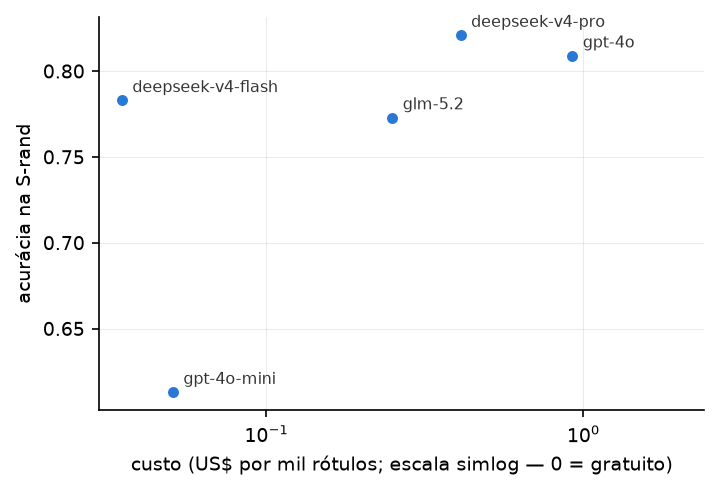
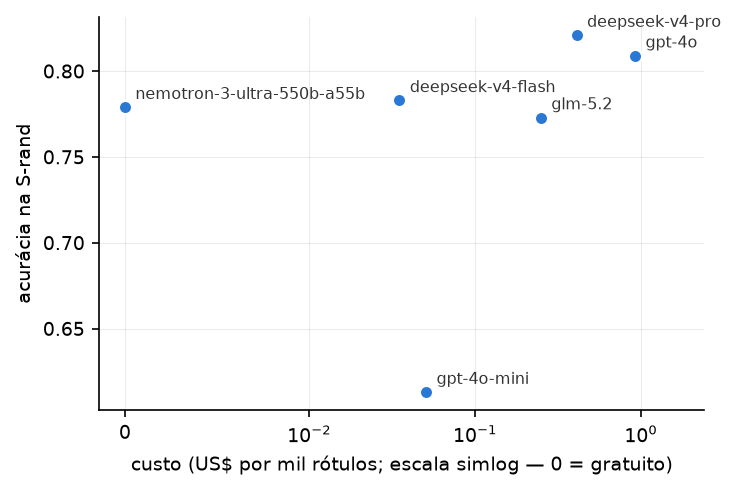
SgdTextClassifier + ciclo E2E FALCO com oráculo real + doc de parada/drift
- sgd_text.py: SGD logístico sobre TF-IDF (porta TaskClassifier; D-007 —
  racional vs XGBoost no docstring); 3 testes novos (70 verdes)
- experiments/e5cycle/run_cycle.py: FALCO ponta a ponta (DRI-SL + entropia +
  estagnação em validação) com nemotron via NVIDIA NIM, por classificador
  {pvbin, sgd}; registra curva interna (validação) e externa (teste);
  smoke offline com --simulated validado (parou em 910/1000 por estagnação)
- docs/parada-e-drift.md: critério de parada (implementado), critério de
  liberação do modelo e monitoramento de drift em 3 camadas c/ gatilhos
- fig_e0 regenerada com o braço free completo

Claude-Session: https://claude.ai/code/session_01JWRRPCroKSVBbRpCGBwpLG

diff --git a/experiments/e5cycle/run_cycle.py b/experiments/e5cycle/run_cycle.py
@@ -1,0 +1,129 @@
+"""E5-ciclo — FALCO ponta a ponta com oráculo LLM real e gratuito (NVIDIA NIM).
+
+Ciclo completo por classificador ∈ {pvbin, sgd}: DRI-SL (cold start sem
+rótulos) → Fase 2 por entropia com transição por estagnação NA VALIDAÇÃO →
+oráculo nemotron-3-ultra (custo monetário zero). Registra a curva INTERNA
+(validação, usada nas decisões) e a EXTERNA (teste intocado, só relato).
+
+Uso: python experiments/e5cycle/run_cycle.py [--classifier pvbin|sgd|both]
+Parâmetros de desenho no bloco CONFIG.
+"""
+from __future__ import annotations
+
+import argparse
+import csv
+import json
+import random
+import sys
+import time
+from collections import Counter
+from pathlib import Path
+
+_ROOT = Path(__file__).resolve().parents[2]
+sys.path.insert(0, str(_ROOT / "src"))
+sys.path.insert(0, str(_ROOT / "experiments/e0"))
+
+from run_e0 import load_dotenv_if_present  # noqa: E402
+
+load_dotenv_if_present()
+
+from activelearning.adapters.classifiers.pvbin import PVBinClassifier  # noqa: E402
+from activelearning.adapters.classifiers.sgd_text import SgdTextClassifier  # noqa: E402
+from activelearning.adapters.oracles.factory import build_oracle  # noqa: E402
+from activelearning.adapters.strategies.drisl import TfidfSvdEncoder, drisl_select  # noqa: E402
+from activelearning.domain.instances import CategorySchema, Instance, normalize_label  # noqa: E402
+from activelearning.application.run_falco import run_falco  # noqa: E402
+
+CONFIG = {
+    "seed": 42,
+    "pool_size": 5000,
+    "val_size": 1000,
+    "test_size": 1000,
+    "budget": 1000,
+    "batch_size": 100,
+    "min_per_class": 2,
+    "oracle": {"provider": "nvidia", "model": "nvidia/nemotron-3-ultra-550b-a55b",
+                "mode": "json-prompt", "items_per_call": 10},
+}
+
+CLASSIFIERS = {"pvbin": PVBinClassifier, "sgd": SgdTextClassifier}
+
+
+def load_splits(cfg):
+    rows = []
+    with (_ROOT / "data/dataset.csv").open(encoding="utf-8") as fh:
+        for r in csv.DictReader(fh):
+            rows.append((r["nm_item"], normalize_label(r["nm_product"])))
+    counts = Counter(l for _, l in rows)
+    rows = [(t, l) for t, l in rows if counts[l] >= cfg["min_per_class"]]
+    # dedup por texto (evita mesma descrição em pool e teste)
+    seen, dedup = set(), []
+    for t, l in rows:
+        k = t.strip().lower()
+        if k not in seen:
+            seen.add(k)
+            dedup.append((t, l))
+    rng = random.Random(cfg["seed"])
+    rng.shuffle(dedup)
+    n_pool, n_val, n_test = cfg["pool_size"], cfg["val_size"], cfg["test_size"]
+    def to_instances(part, prefix):
+        from activelearning.domain.instances import Label
+        return [Instance(id=f"{prefix}-{i}", text=t, gold_label=Label(l))
+                for i, (t, l) in enumerate(part)]
+    pool = to_instances(dedup[:n_pool], "pool")
+    val = to_instances(dedup[n_pool:n_pool + n_val], "val")
+    test = to_instances(dedup[n_pool + n_val:n_pool + n_val + n_test], "test")
+    from activelearning.domain.instances import Label
+    schema = CategorySchema([Label(l) for l in sorted({l for _, l in dedup})])
+    return pool, val, test, schema
+
+
+def main():
+    ap = argparse.ArgumentParser()
+    ap.add_argument("--classifier", choices=["pvbin", "sgd", "both"], default="both")
+    ap.add_argument("--simulated", action="store_true",
+                    help="smoke offline: troca o oráculo por SimulatedOracle(ruído 0,2)")
+    args = ap.parse_args()
+    cfg = dict(CONFIG)
+    if args.simulated:
+        cfg["oracle"] = {"provider": "simulated", "noise": 0.2, "seed": cfg["seed"]}
+    pool, val, test, schema = load_splits(cfg)
+    print(f"splits: pool={len(pool)} val={len(val)} test={len(test)} "
+          f"classes(schema)={len(schema)}", flush=True)
+
+    encoder = TfidfSvdEncoder()
+    out = Path(__file__).parent / "results"
+    out.mkdir(exist_ok=True)
+
+    names = ["pvbin", "sgd"] if args.classifier == "both" else [args.classifier]
+    for name in names:
+        factory = CLASSIFIERS[name]
+        oracle = build_oracle(cfg["oracle"])
+        print(f"\n=== ciclo FALCO · classificador={name} · oráculo={cfg['oracle'].get('model', cfg['oracle']['provider'])} ===",
+              flush=True)
+        t0 = time.time()
+        res = run_falco(
+            pool=pool, validation=val, test=test, schema=schema,
+            classifier_factory=lambda: factory(),
+            oracle_initial=oracle,
+            drisl_selector=lambda texts, k: drisl_select(
+                texts, k, encoder, seed=cfg["seed"]).indices,
+            budget=cfg["budget"], batch_size=cfg["batch_size"], seed=cfg["seed"],
+            output_path=out / f"cycle_{name}_records.jsonl",
+        )
+        payload = {
+            "classifier": name, "config": cfg, **res.summary(),
+            "wall_seconds": round(time.time() - t0, 1),
+            "curve_test": list(zip(res.curve_macro_f1.l_sizes, res.curve_macro_f1.scores)),
+            "curve_val": res.curve_val_macro_f1,
+        }
+        (out / f"cycle_{name}.json").write_text(
+            json.dumps(payload, indent=2, ensure_ascii=False))
+        print(json.dumps({k: payload[k] for k in
+                          ("classifier", "final_macro_f1", "lce_macro_f1",
+                           "n_labeled", "invalid_labels", "phase_boundaries",
+                           "wall_seconds")}, ensure_ascii=False), flush=True)
+
+
+if __name__ == "__main__":
+    main()

diff --git a/src/activelearning/adapters/classifiers/sgd_text.py b/src/activelearning/adapters/classifiers/sgd_text.py
@@ -1,0 +1,62 @@
+"""SGD logístico sobre TF-IDF — classificador rápido para laços de AL.
+
+Escolhido como o "algoritmo eficiente de treinar" do ciclo E2E (D-007):
+regressão logística por gradiente estocástico em representação esparsa
+(1,2)-gramas. Treina em segundos mesmo com centenas de classes e fornece
+``predict_proba`` nativo (necessário às estratégias de incerteza).
+
+Por que não XGBoost: com 621 classes o custo é um conjunto de árvores POR
+classe sobre matriz esparsa de alta dimensão — minutos a horas por retreino,
+exatamente o que um laço com dezenas de retreinos não comporta; e a
+probabilidade calibrada exigiria etapa extra. O ponto do braço "clássico
+rápido" é custo marginal de retreino desprezível.
+"""
+from __future__ import annotations
+
+import numpy as np
+from sklearn.feature_extraction.text import TfidfVectorizer
+from sklearn.linear_model import SGDClassifier
+
+
+class SgdTextClassifier:
+    """Porta TaskClassifier: fit/predict/predict_proba com colunas em classes_."""
+
+    def __init__(
+        self,
+        ngram_range: tuple[int, int] = (1, 2),
+        alpha: float = 1e-5,
+        max_iter: int = 20,
+        seed: int = 42,
+    ) -> None:
+        self._ngram_range = tuple(ngram_range)
+        self._alpha = float(alpha)
+        self._max_iter = int(max_iter)
+        self._seed = int(seed)
+        self._vectorizer: TfidfVectorizer | None = None
+        self._model: SGDClassifier | None = None
+        self.classes_: list[str] = []
+
+    def fit(self, texts: list[str], labels: list[str]) -> "SgdTextClassifier":
+        if not texts or len(texts) != len(labels):
+            raise ValueError("fit exige texts e labels não vazios e do mesmo tamanho.")
+        self._vectorizer = TfidfVectorizer(
+            token_pattern=r"(?u)\b\w+\b", lowercase=True, strip_accents="ascii",
+            ngram_range=self._ngram_range,
+        )
+        x = self._vectorizer.fit_transform(texts)
+        self._model = SGDClassifier(
+            loss="log_loss", alpha=self._alpha, max_iter=self._max_iter,
+            random_state=self._seed, tol=1e-3,
+        )
+        self._model.fit(x, labels)
+        self.classes_ = list(self._model.classes_)
+        return self
+
+    def predict_proba(self, texts: list[str]) -> np.ndarray:
+        if self._model is None or self._vectorizer is None:
+            raise RuntimeError("Chame fit antes de predict_proba.")
+        return self._model.predict_proba(self._vectorizer.transform(texts))
+
+    def predict(self, texts: list[str]) -> list[str]:
+        proba = self.predict_proba(texts)
+        return [self.classes_[i] for i in proba.argmax(axis=1)]

diff --git a/tests/unit/test_sgd_text.py b/tests/unit/test_sgd_text.py
@@ -1,0 +1,32 @@
+"""Testes do SgdTextClassifier (porta TaskClassifier)."""
+import numpy as np
+import pytest
+
+from activelearning.adapters.classifiers.sgd_text import SgdTextClassifier
+
+TEXTS = ["arroz branco tipo 1", "arroz agulhinha 5kg", "feijao preto 1kg",
+         "feijao carioca", "leite integral 1l", "leite desnatado"]
+LABELS = ["arroz", "arroz", "feijao", "feijao", "leite", "leite"]
+
+
+def test_fit_predict_and_proba_shape():
+    clf = SgdTextClassifier(seed=0).fit(TEXTS, LABELS)
+    assert clf.classes_ == sorted(set(LABELS))
+    proba = clf.predict_proba(["arroz parboilizado"])
+    assert proba.shape == (1, 3)
+    assert np.isclose(proba.sum(), 1.0, atol=1e-6)
+    assert clf.predict(["arroz parboilizado"]) == ["arroz"]
+
+
+def test_deterministic_by_seed():
+    p1 = SgdTextClassifier(seed=7).fit(TEXTS, LABELS).predict_proba(TEXTS)
+    p2 = SgdTextClassifier(seed=7).fit(TEXTS, LABELS).predict_proba(TEXTS)
+    assert np.allclose(p1, p2)
+
+
+def test_errors_before_fit_and_on_empty():
+    clf = SgdTextClassifier()
+    with pytest.raises(RuntimeError):
+        clf.predict(["x"])
+    with pytest.raises(ValueError):
+        clf.fit([], [])

diff --git a/docs/parada-e-drift.md b/docs/parada-e-drift.md
@@ -1,0 +1,80 @@
+# Critério de parada e drift: quando liberar o modelo e quando retreinar
+
+Guia operacional para o ciclo de vida do classificador treinado pelo FALCO —
+da decisão de PARAR de rotular à decisão de RETREINAR em produção. As seções
+1–2 já estão implementadas na biblioteca; a seção 3 é o desenho recomendado
+para o FlowBuilder (com apontadores de implementação).
+
+## 1. Parada do laço de AL (implementado)
+
+O laço não roda até esgotar o orçamento cegamente. Três gatilhos, na ordem:
+
+1. **Estagnação na validação** (`run_falco`): se o Macro-F1 no conjunto de
+   validação não melhora mais que `eps=1e-3` por `patience=5` iterações, a
+   fase atual termina. Sem oráculo Avançado configurado, o ciclo PARA — o
+   smoke E5 real parou em 910/1000 rótulos exatamente por isso. O teste
+   NUNCA participa dessa decisão (correção A1 da revisão R1).
+2. **Orçamento** (`budget`): teto absoluto de rótulos pagos.
+3. **Pool esgotado**: sem instâncias restantes, fim.
+
+Racional estatístico: a curva de aprendizado tem retornos decrescentes; o
+custo marginal do rótulo é constante, mas o ganho marginal cai — quando o
+ganho observável na validação fica abaixo da resolução do próprio conjunto de
+validação (≈1/√n_val), continuar rotulando é pagar por ruído.
+
+## 2. Quando LIBERAR o modelo (critério de release)
+
+Recomendação em três condições simultâneas, todas mensuráveis com o que a
+biblioteca já produz:
+
+- **(a) Estagnação atingida** (gatilho 1 acima) — o modelo parou de melhorar
+  com o oráculo disponível;
+- **(b) Desempenho de validação ≥ alvo de negócio** — o alvo é externo (ex.:
+  "Macro-F1 ≥ 0,95 × teto supervisionado conhecido", a hipótese da tese). Sem
+  alvo externo, use o teto empírico: o braço oráculo-total (treinar com TODO o
+  pool rotulado pelo mesmo oráculo) custa só inferência LLM e diz o máximo que
+  ESTE oráculo permite — se a curva estagnou perto dele, mais rótulos não
+  resolvem, só um oráculo melhor;
+- **(c) IC compatível com o alvo** — o intervalo de Wilson do desempenho de
+  validação deve estar acima do piso aceitável (com n_val=1000, a meia-largura
+  é ±2–3 p.p.; valide com folga ou aumente n_val).
+
+Só então avalia-se UMA vez no teste intocado — esse número é o que se reporta.
+
+## 3. Drift em produção: quando RETREINAR
+
+Textos curtos de varejo derivam rápido (novos produtos, novas marcas, novas
+grafias). Três camadas de monitoramento, da mais barata à mais cara:
+
+| Camada | Sinal | Custo | Gatilho sugerido |
+|---|---|---|---|
+| 1. Drift de entrada (sem rótulo) | % de tokens fora do vocabulário do treino; distância da distribuição de embeddings (PSI/KS sobre projeções) | zero | OOV-rate 2× o do treino, ou PSI > 0,2 |
+| 2. Drift de confiança (sem rótulo) | queda da confiança média/entropia média das predições em produção | zero | média móvel 7d abaixo de μ−2σ do período de referência |
+| 3. Verificação amostral (com oráculo) | acurácia numa amostra pequena rotulada pelo LLM Inicial (ex.: 200 itens/semana ≈ US$ 0,01) | ~zero | acurácia amostral abaixo do IC inferior da validação de release |
+
+Política recomendada:
+
+- **Camadas 1–2 disparam** → antecipar a camada 3 (rotular amostra agora).
+- **Camada 3 confirma queda** → retreinar. O retreino no FALCO é barato por
+  desenho: os rótulos antigos não expiram; roda-se um ciclo INCREMENTAL de AL
+  só sobre o pool novo (o classificador atual seleciona o que não entende do
+  fluxo recente; o oráculo LLM rotula; retreina-se do zero com L_antigo ∪
+  L_novo — retreinar do zero preserva comparabilidade e evita os problemas de
+  warm-start).
+- **Cadência mínima**: mesmo sem gatilho, uma verificação amostral mensal —
+  drift de catálogo pode ser gradual demais para as camadas 1–2.
+
+Implementação no FlowBuilder: as camadas 1–2 são estatísticas do próprio
+`predict_proba` + vocabulário do vetorizador (nenhuma dependência nova); a
+camada 3 reusa `EvaluateOracle` com `n` pequeno. Um endpoint
+`GET /api/models/{id}/health` com esses três sinais é o próximo incremento
+natural.
+
+## Conexão com a tese
+
+- Parada por estagnação em V: Cap. 3 (§ transição de fases) — constantes
+  p=5, ε=1e-3 justificadas lá.
+- Teto por oráculo (braço oráculo-total): Cap. 3, desenho do E3 (5º braço).
+- Retreino×warm-start: discussão no diário 17/07 e literatura de
+  warm-starting (Ash & Adams, 2020).
+- Drift: tema de trabalhos futuros no Cap. 6 (operacionalização).